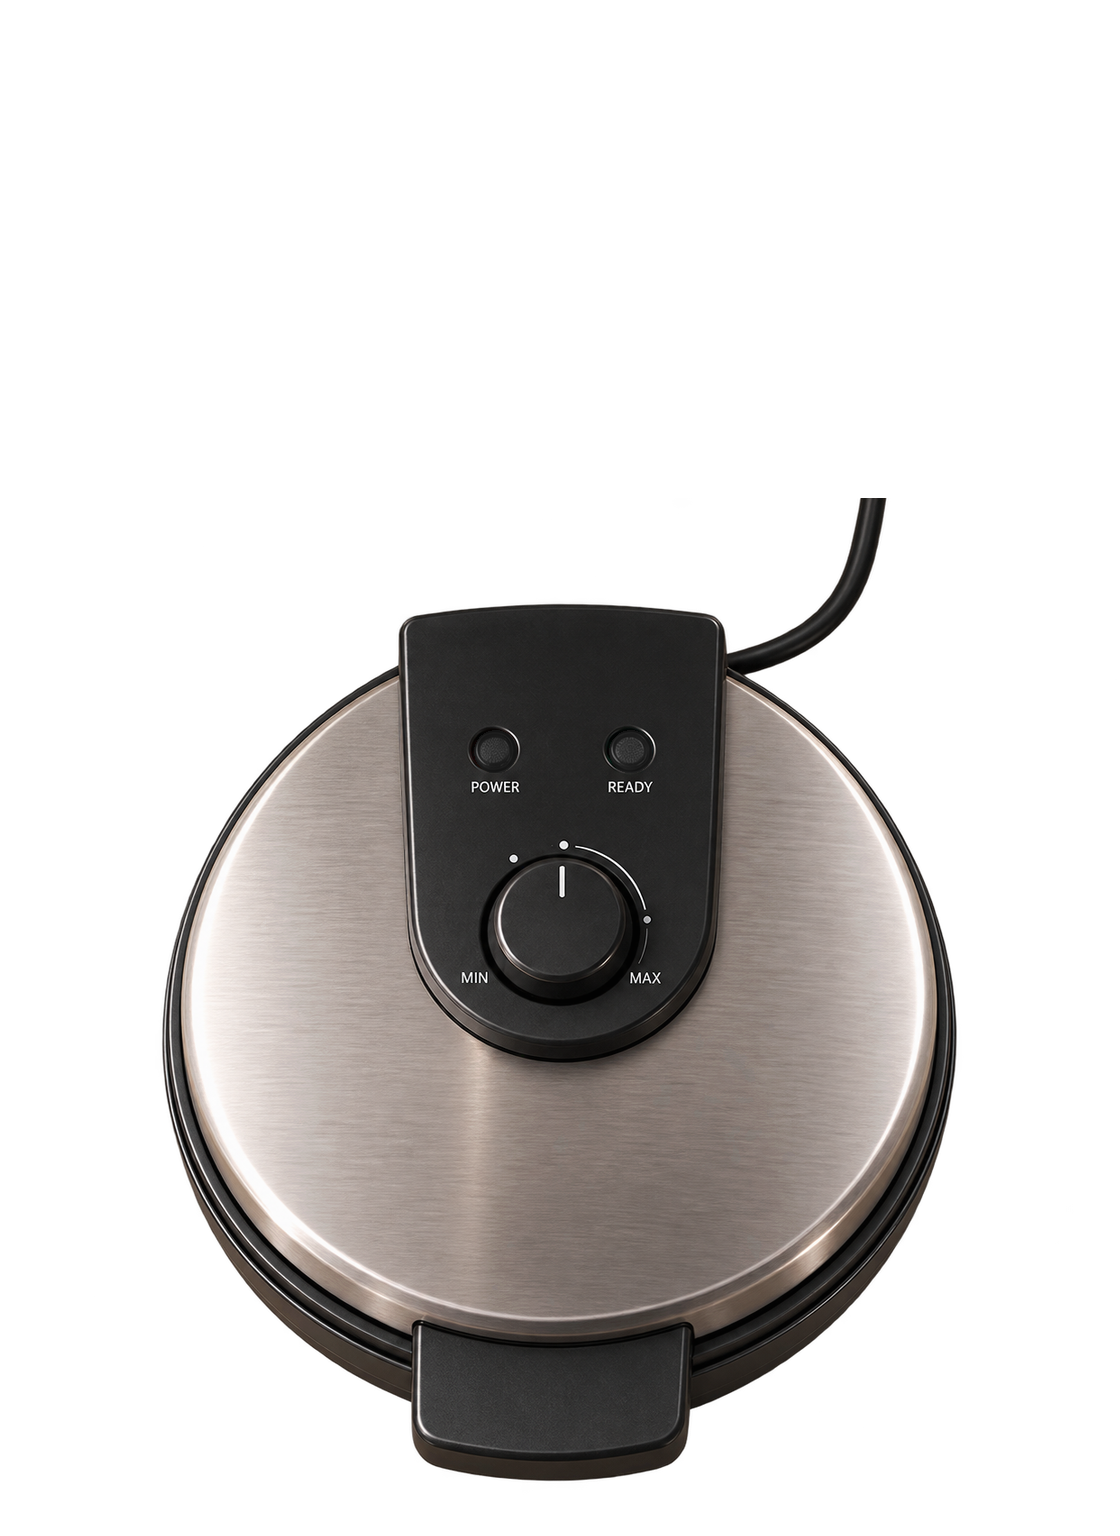
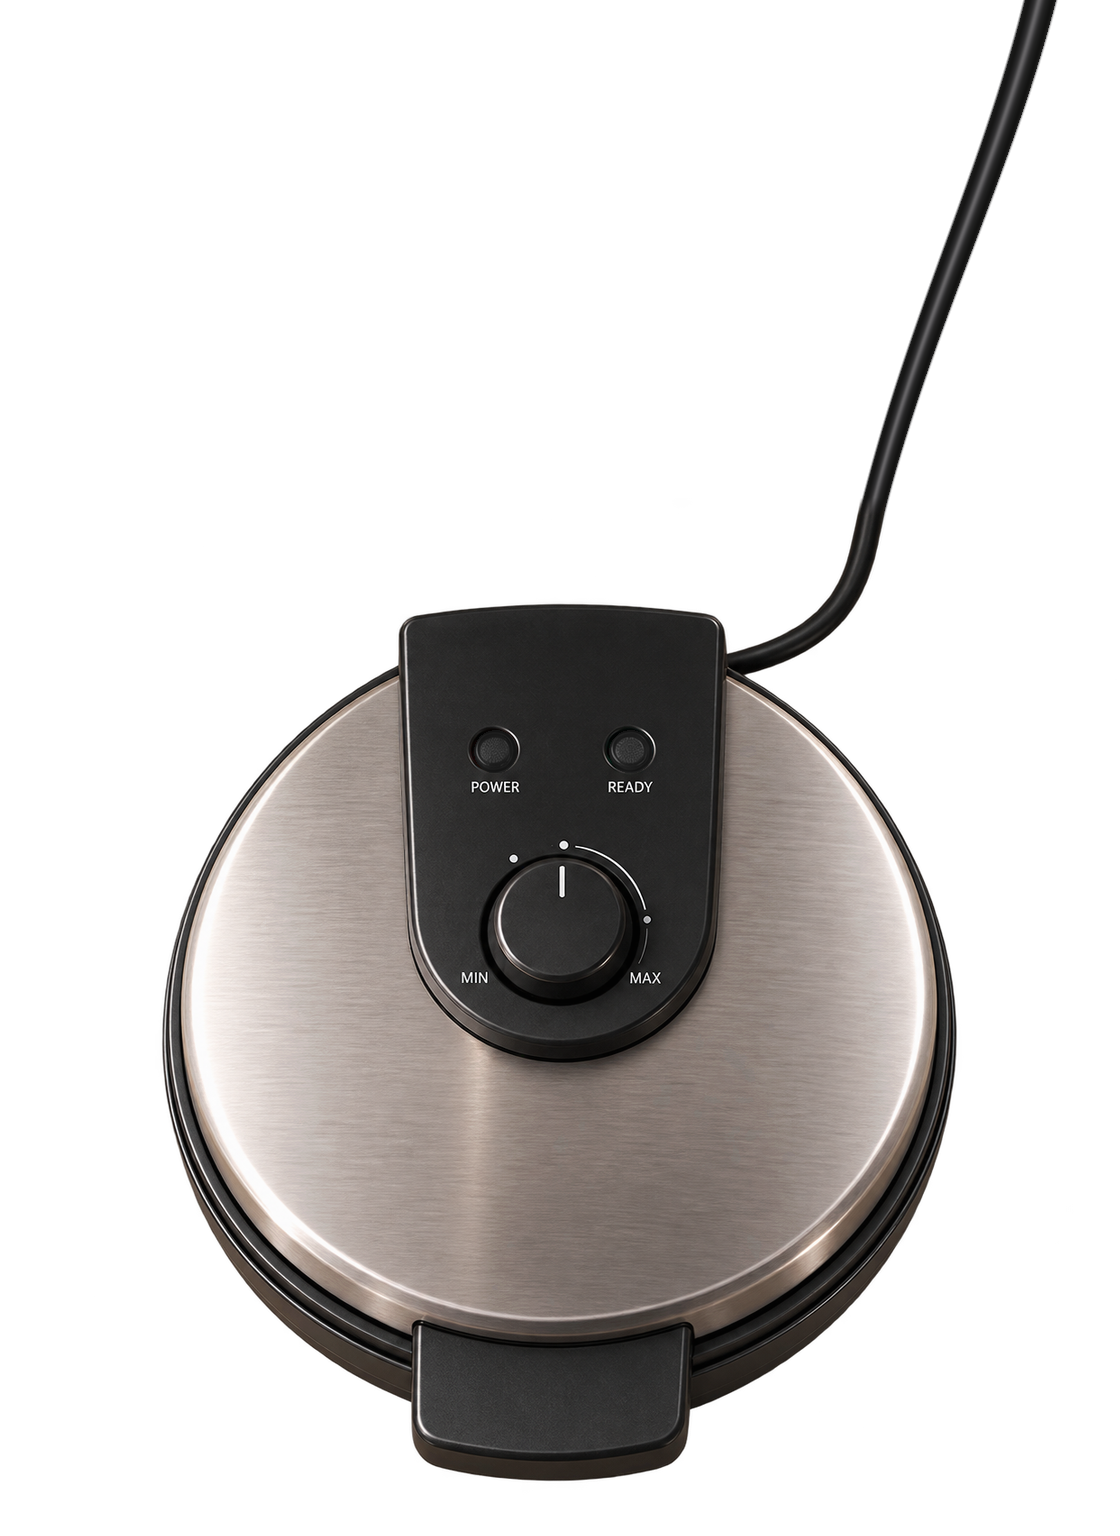
Fix cut-off waffle maker cable
- Extend the closed machine's cable with a smooth curve to the top of the art,
  shaded from the real cable and feathered into the original
- Continue the cable from the top of the art up and off the screen
  in every state, open and closed

Changed region(s): [[0.75, 0.0, 0.9375, 0.3438]]

diff --git a/src/styles.css b/src/styles.css
@@ -526,3 +526,6 @@
 .camera-invite div span{font-size:11px;color:#6b7f58;font-weight:700}
 .completion-card .camera-invite button:not(.invite-close){flex:none;padding:7px 14px;font-size:14px;border-width:2px;box-shadow:0 3px 0 #3b6824;background:#5e9d3b}
 .completion-card .camera-invite .invite-close{position:absolute;right:6px;top:4px;padding:2px 6px;border:0;background:none;box-shadow:none;color:#6b7f58;font-size:18px;line-height:1}
+
+/* Power cable continues from the top of the machine art up and off the screen */
+.maker-art::before{content:'';position:absolute;left:91.473%;bottom:calc(100% - 2px);width:2.946%;height:100vh;background:linear-gradient(90deg,rgba(20,20,20,0.24) 0%,rgba(26,26,26,1.00) 6%,rgba(22,22,22,1.00) 12%,rgba(24,24,24,1.00) 19%,rgba(32,32,33,1.00) 25%,rgba(44,44,45,1.00) 31%,rgba(69,69,70,1.00) 38%,rgba(100,98,101,1.00) 44%,rgba(92,90,92,1.00) 50%,rgba(63,62,64,1.00) 56%,rgba(42,42,42,1.00) 62%,rgba(32,31,31,1.00) 69%,rgba(25,25,25,1.00) 75%,rgba(20,20,20,1.00) 81%,rgba(20,20,19,1.00) 88%,rgba(30,29,29,1.00) 94%,rgba(35,35,35,0.12) 100%,rgba(35,35,35,0.12) 100%);filter:drop-shadow(0 18px 14px rgba(55,28,13,.38));pointer-events:none}
